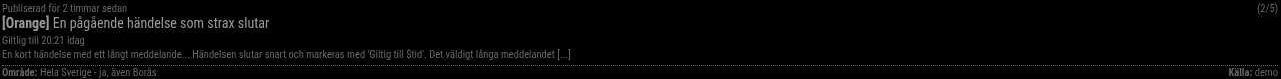
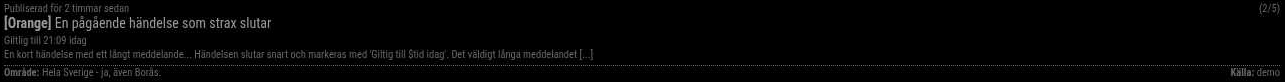
Updated texts and dates in demo feed

diff --git a/lib/demoFeedUtils.js b/lib/demoFeedUtils.js
@@ -6,21 +6,21 @@ const {
 
 const formatDemoFeed = (feed, config = {}) => {
     if (!Array.isArray(feed)) return [];
-	const descriptionMaxLength = config.descriptionMaxLength ?? 140;
+	const descriptionMaxLength = config.descriptionMaxLength ?? 145;
 
     return feed.flatMap(item => {
 		return {
-			publishTime: getTimeWithHoursAdded(item.published),
-			updatedTime: getTimeWithHoursAdded(item.updated),
+			publishTime: getTimeWithMinutesAdded(item.published),
+			updatedTime: getTimeWithMinutesAdded(item.updated),
 			warningLevelText: item.warningLevelText,
-			incidentStartTime: getTimeWithHoursAdded(item.warningStartTime),
-			incidentStopTime: getTimeWithHoursAdded(item.warningStopTime),
+			incidentStartTime: getTimeWithMinutesAdded(item.warningStartTime),
+			incidentStopTime: getTimeWithMinutesAdded(item.warningStopTime),
 
-			warningRelevantStartTime: getTimeWithHoursAdded(item.published),
-			warningRelevantStopTime: getTimeWithHoursAdded(item.warningStopTime),
+			warningRelevantStartTime: getTimeWithMinutesAdded(item.published),
+			warningRelevantStopTime: getTimeWithMinutesAdded(item.warningStopTime),
 			incidentPeriodString: getIncidentPeriodString(
-				getTimeWithHoursAdded(item.warningStartTime),
-				getTimeWithHoursAdded(item.warningStopTime)
+				getTimeWithMinutesAdded(item.warningStartTime),
+				getTimeWithMinutesAdded(item.warningStopTime)
 			),
 
 			incidentTitle: item.title,
@@ -33,15 +33,15 @@ const formatDemoFeed = (feed, config = {}) => {
 };
 
 /**
- * This function take a integer that represents hours and use that to add (if possitive) or subtract (if negative) that number of hours to the current time and return the new time.
+ * This function take a integer that represents minutes and use that to add (if positive) or subtract (if negative) that number of minutes to the current time and return the new time.
  * If the input is not a number, it will return undefined.
- * @param {number} hoursToAdd - The number of hours to add (or subtract if negative) to the current time.
- * @returns {Date} - The new time that is the current time + X hours.
+ * @param {number} minutesToAdd - The number of minutes to add (or subtract if negative) to the current time.
+ * @returns {Date} - The new time that is the current time + X minutes.
  */
-function getTimeWithHoursAdded(hoursToAdd) {
-	if (typeof hoursToAdd !== "number") return undefined;
+function getTimeWithMinutesAdded(minutesToAdd) {
+	if (typeof minutesToAdd !== "number") return undefined;
 	const currentTime = new Date();
-	const newTime = new Date(currentTime.getTime() + hoursToAdd * 3600000); // 3600000 ms in an hour
+	const newTime = new Date(currentTime.getTime() + minutesToAdd * 60000); // 60000 ms in a minute
 	return newTime;
 }
 

diff --git a/test/formatDemoFeed.test.js b/test/formatDemoFeed.test.js
@@ -20,11 +20,11 @@ class FormatDemoFeedTest {
     static testFormatDemoFeedMapsFieldsAndBuildsIncidentPeriodString() {
         const payload = [
             {
-                published: -10,
-                updated: -5,
+                published: -600,
+                updated: -300,
                 warningLevelText: "Gul",
-                warningStartTime: 15,
-                warningStopTime: 75,
+                warningStartTime: 900,
+                warningStopTime: 4500,
                 title: "Demo warning title",
                 description: "a".repeat(200),
                 affectedArea: "Skane",
@@ -36,10 +36,10 @@ class FormatDemoFeedTest {
         const [formatted] = formatDemoFeed(payload, { descriptionMaxLength: 20 });
         assert.ok(formatted, "Formatter should return one item for one-item input");
 
-        this.assertDateNearOffset(formatted.publishTime, -10);
-        this.assertDateNearOffset(formatted.updatedTime, -5);
-        this.assertDateNearOffset(formatted.incidentStartTime, 15);
-        this.assertDateNearOffset(formatted.incidentStopTime, 75);
+        this.assertDateNearOffset(formatted.publishTime, -600);
+        this.assertDateNearOffset(formatted.updatedTime, -300);
+        this.assertDateNearOffset(formatted.incidentStartTime, 900);
+        this.assertDateNearOffset(formatted.incidentStopTime, 4500);
 
         assert.strictEqual(formatted.warningLevelText, "Gul", "warningLevelText should be mapped");
         assert.strictEqual(formatted.incidentTitle, "Demo warning title", "incidentTitle should be mapped");
@@ -101,16 +101,16 @@ class FormatDemoFeedTest {
         );
     }
 
-    static assertDateNearOffset(value, offsetHours) {
+    static assertDateNearOffset(value, offsetMinutes) {
         assert.ok(value instanceof Date, "Formatted timestamp should be a Date");
 
-        const expected = Date.now() + offsetHours * 60 * 60 * 1000;
+        const expected = Date.now() + offsetMinutes * 60 * 1000;
         const actual = value.getTime();
         const toleranceMs = 4000;
 
         assert.ok(
             Math.abs(actual - expected) <= toleranceMs,
-            `Expected time to be within ${toleranceMs}ms of offset ${offsetHours} hours`
+            `Expected time to be within ${toleranceMs}ms of offset ${offsetMinutes} minutes`
         );
     }
 }
